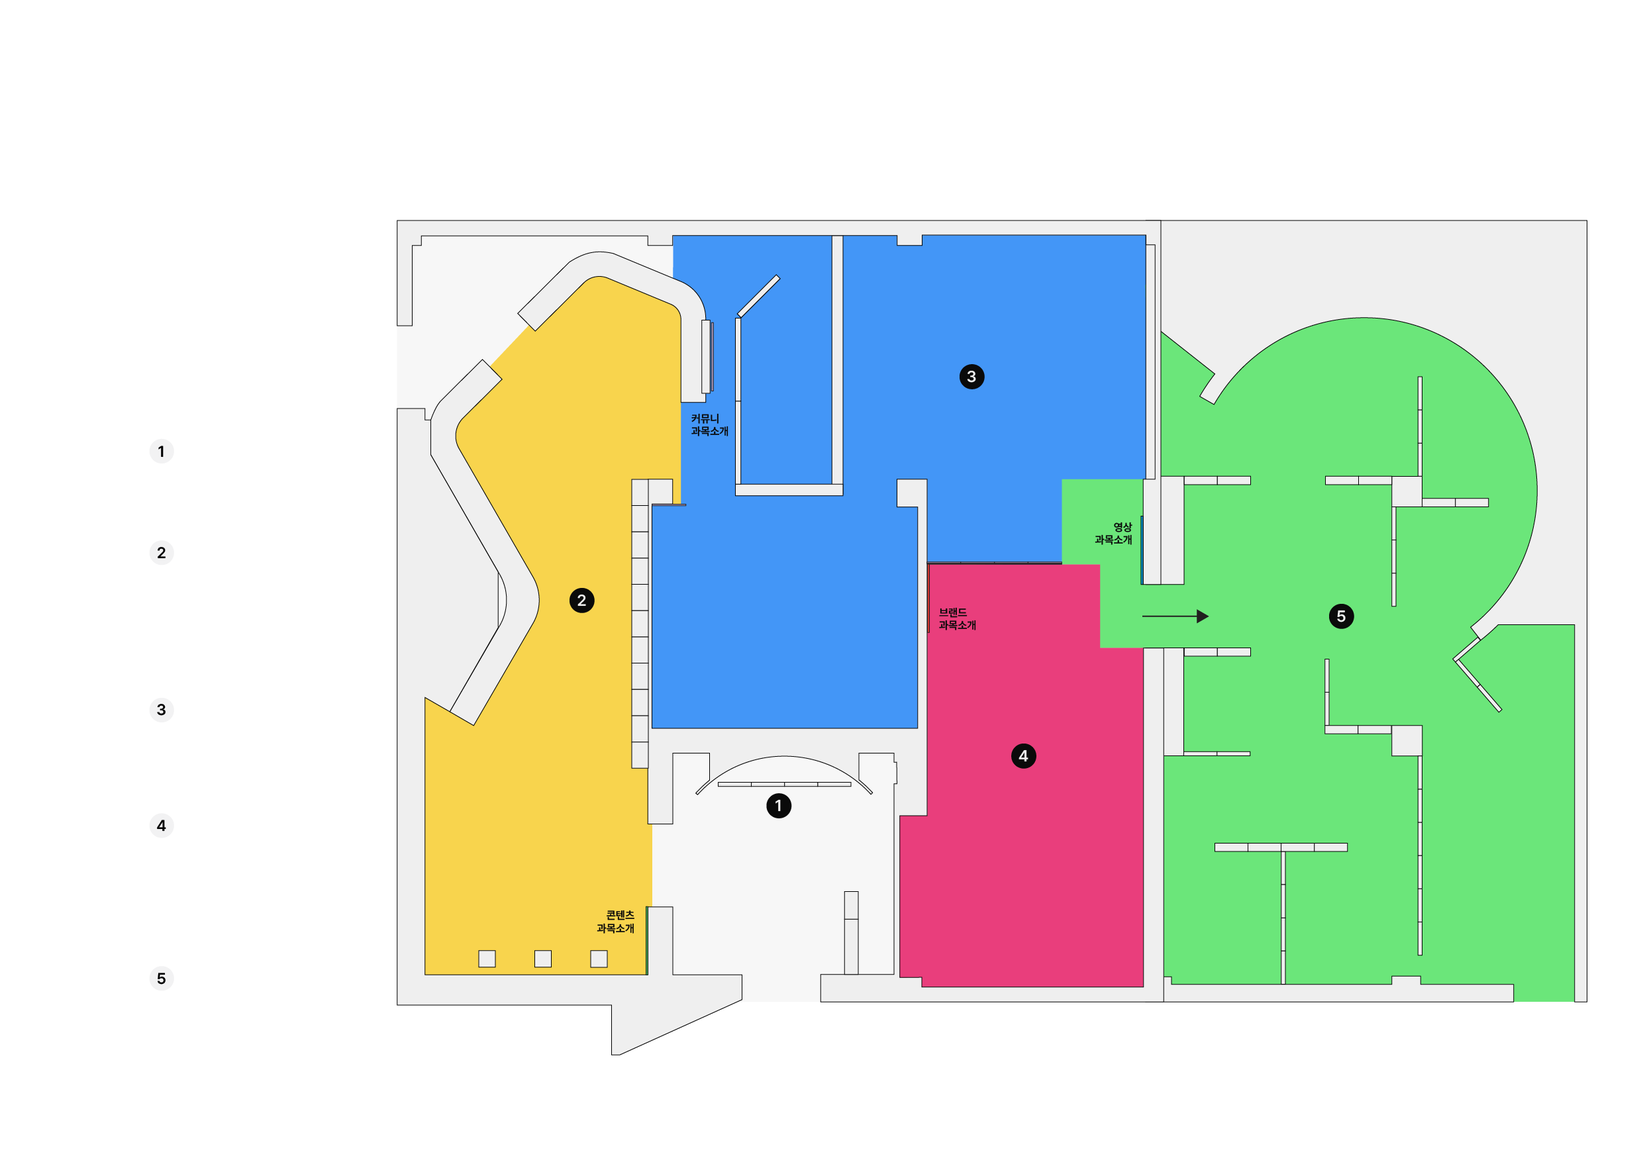
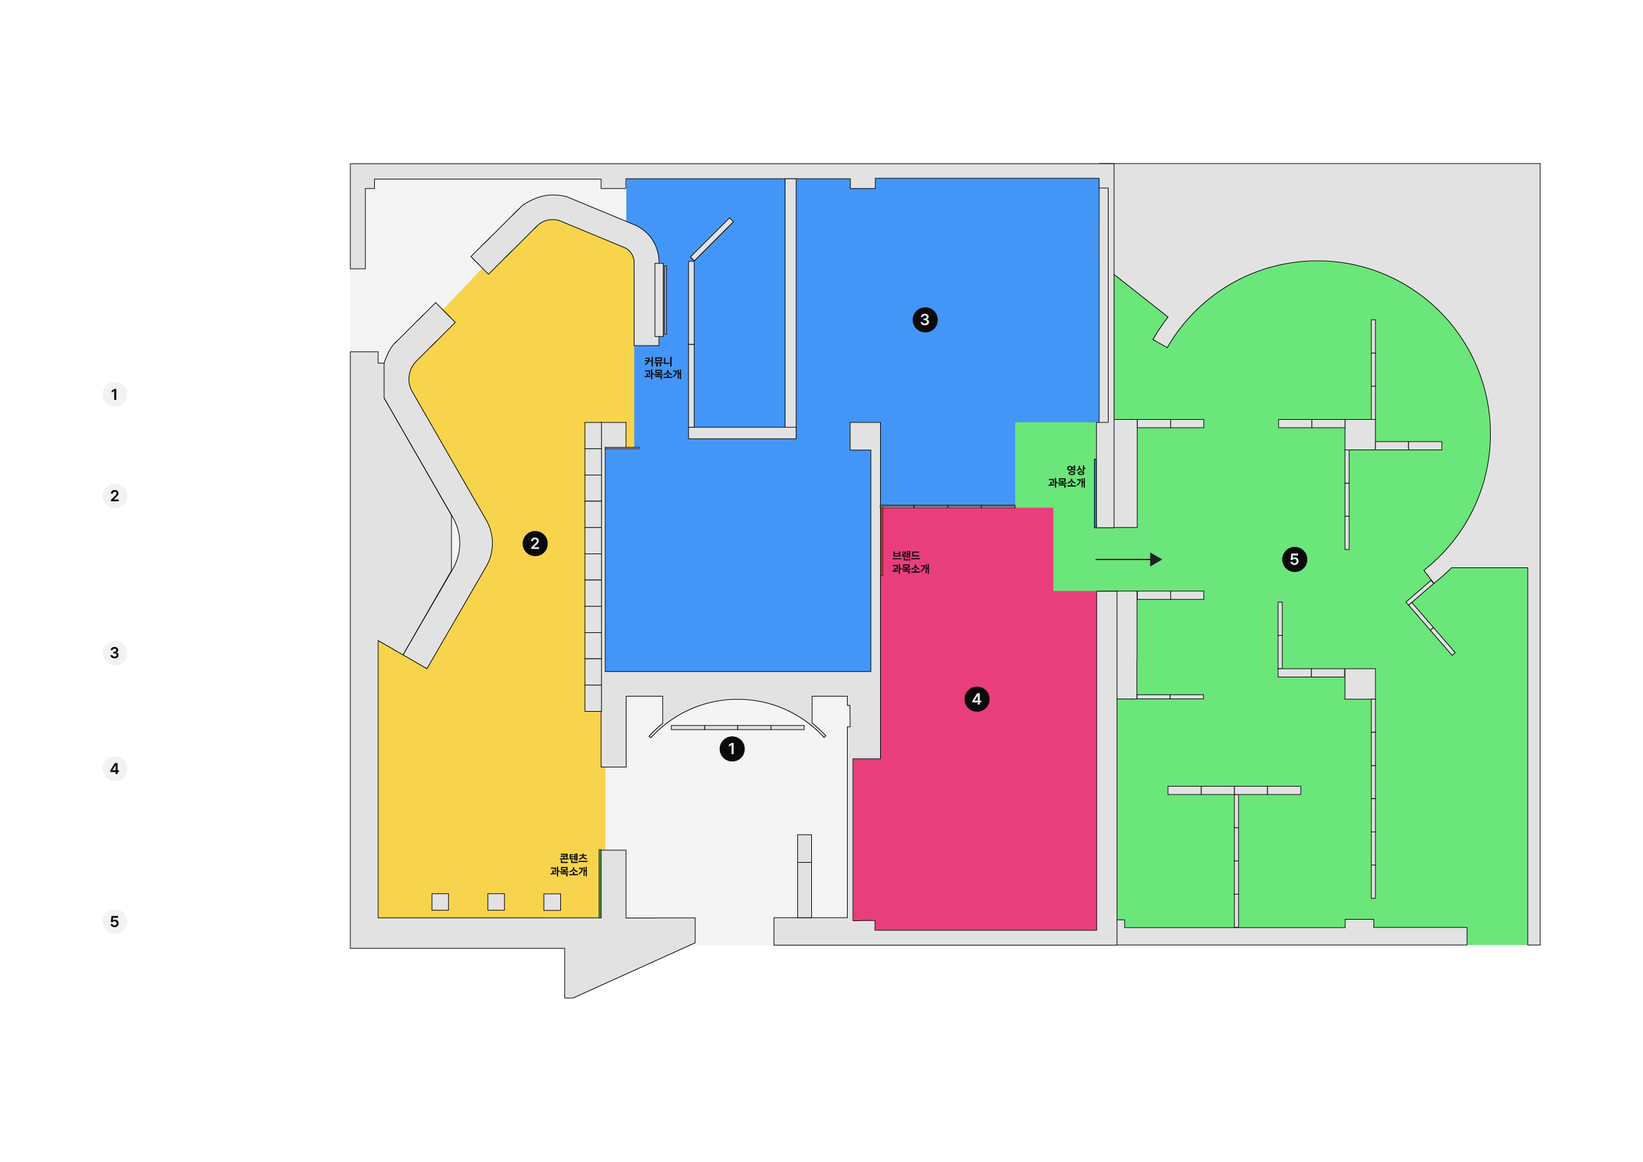
수정
슈정

diff --git a/js/project-detail.js b/js/project-detail.js
@@ -2,7 +2,7 @@
 (function () {
   'use strict';
   /* 상세페이지 PROJECT 설명 문구 (페이지번호 → 이름(공백제거) → 문구) */
-  var projectDescs = {"1": {"고보경": "숲의 미래를 질문하며 보존의 가치를 시각화하는 아이덴티티 프로젝트 <What If _>", "강은주": "<Filter Human & Sponge Human> 주체적 수용을 위한 사회적 관계 맺기 시각 아이덴티티 연구 <HUMAN FILTER LAB>", "김선아": "공간의 고정관념을 해체하는 XR Studio 시각 아이덴티티 연구 <D es Ou>", "김아연": "Question & Curiosity Bank 궁금증과 호기심을 해결하는 문제해결 은행 <Q?RIOS>", "김온슬": "사회적 포비아 정보 시각화 연구소 <Don't Panic>", "김채은": "자연계 순환의 대비로 해석되는 인간 가치 시스템 아이덴티티 프로젝트 <H 1/n N 1/n >", "민찬우": "지역소멸 탐색, 재구성 시각화 연구소 <There>", "박시연": "도시 소음의 중첩으로 발생하는 감각 과부하 개선 시각화 프로젝트 <S=City/N>", "박지희": "1인가구를 위한 나이트 루틴 케어 패키지<달빛 한 모금, 별가루 한 스푼>", "반가인": "와비사비의 미학을 통해 소멸의 가치를 긍정하는 비정형 퍼퓸 브랜드 <MAMO>", "서동윤": "Z세대 의기양양 캠페인 <담담.당당>", "서준원": "가능성 중심의 격려를 건네는 홈 가드닝 브랜드 <CAN>", "서하빈": "도시 환경 개선 <도시 한 칸 비움 한켠> 아이덴티티프로젝트", "신지혜": "사건,사물의 궤적을 잇는 기록 플랫폼 <Underline Archive>", "안혜원": "우리사회행복만들기캠페인 <함께 행복 합니다>", "양서안": "사회적 계몽을 위한 긍정적 감염 비주얼 백신 연구소 <SUGARCOAT>", "이강찬": "기존 질서에 개입하는 시각적 선언연대 아이덴티티 프로젝트 <나섦기류단>", "이고은": "야외 환경에서의 간편한 식사 경험을 위한 패키지 <Let’s Picnic!>", "이기훈": "캠핑/피크닉 용품 사용자 경험 패키지 <GABBUN!>", "이소연": "버려지는 물건에 새로운 숨을, Upcycle Object Factory <After Art>", "이지민": "마음이 채워지는 사계절의 순간, 시즈너블 기프트 디저트 패키지 <Oh, My _!>", "제선우": "전형적 관계의 맥락 삭제 패키지 - NullyNully", "정유리": "덜어냄의 미학-올데이 다이어트 라이프 스타일 <BREATH.Y>", "정윤서": "패션 소품 압축 패키지 <Quiet Objects>", "조서빈": "보이지 않는 디지털 행동의 구조를 시각 언어로 재해석하는 프로젝트<IF THEN>", "채한주": "창발성의 관점으로 해석한 ‘계’의 분류와 구조의 시각화 프로젝트<Not Only>", "최고은": "을지로 공구거리 재활성화 프로젝트 <다시,을지>", "최유민": "신화적 서사가 담긴 과일청 패키지 브랜드 <신의과원>", "최은서": "소모의 철학-센티드 페이퍼 아트 패키지 <SOMO,>", "한호정": "다양한 이동조건을 가진 사용자들을 위한 직관적 경로 아이덴티티 <Right way>"}, "2": {"고보경": "나의 기준은 외부에서 형성되는가, 아니면 스스로 설정하는가?", "강은주": "알고리즘이 분류한 ‘나’와 내가 생각하는 ‘나’는 얼마나 같고 다른가?", "김선아": "AI의 답변은 나의 다음 생각과 선택에 어떤 영향을 주는가?", "김아연": "끊임없이 변화하는 환경 속에서 경계는 고정되어야 하는가, 아니면 상황에 따라 유연하게 변해야 하는가?", "김온슬": "과거의 결핍이 창의성의 원천이었다면, 모든 것이 충족되는 기술 시대의 창의성은 어디서 오는가?", "김채은": "나의 생각을 기술이 침범하는 순간이 많아진다면, 나는 스스로의 내면을 어떻게 지켜나갈 것인가?", "민찬우": "부딪히는 순간, 경계는 무너지는 걸까 새로 생겨나는 걸까?", "박시연": "내가 나라고 믿는 기준은 어디에서 비롯된 것인가?", "박지희": "나는 지금 선택하고 있는 걸까, 아니면 익숙함에 반응하고 있는 걸까?", "반가인": "우리는 왜 끊임없이 경계를 만들고 유지하려 하는가?", "서동윤": "빠르게 변화하는 기술의 흐름 속에서 인간은 무엇을 잃지 않고 이어가야하는가?", "서준원": "부딪히는 두 대상 중, 실제로 더 크게 흔들리는 것은 강한 쪽일까 약한 쪽일까?", "서하빈": "서로의 다름을 깎아내어 맞추는 것이 조율인가, 아니면 다름을 유지한 채 엮어내는 것이 조율인가?", "신지혜": "공존은 안정된 상태인가, 아니면 지속적으로 조율되는 과정인가?", "안혜원": "익숙함은 반복의 결과인가, 아니면 사회적으로 학습된 기준인가?", "양서안": "맥락의 변화로 대상의 의미가 달라질 때, 실제로 변하는 것은 외부의 대상인가 아니면 대상을 바라보는 나의 ‘인식 구조’인가?", "이강찬": "기존 질서를 해체하는 것은 파괴인가, 아니면 창조의 시작인가?", "이고은": "변화는 나를 잃는 과정인가, 나를 확장하는 과정인가?", "이기훈": "인식은 대상을 발견하는 일일까, 대상에 의미를 부여하는일일까?", "이소연": "관계가 흔들릴 때 새로운 방식의 연결은 어떻게 만들어지는가?", "이지민": "나를 규정하는 기준은 스스로 만든 것인가, 사회가 정한 것인가?", "제선우": "시대의 변화는 인간이 관계를 맺는 방식을 어떻게 바꾸어왔는가?", "정유리": "선을 긋는 건 지키기 위함일까, 밀어내기 위함일까?", "정윤서": "공존은 경계를 명확히 함으로써 가능한가, 아니면 경계를 흐리게함으로써 가능한가?", "조서빈": "대상을 어떻게 바라보느냐에 따라 나의 행동과 태도는 어떻게 달라지는가?", "채한주": "시대가 변화할 때, 우리가 당연하다고 여겼던 것들은 어떻게 흔들리는가?", "최고은": "늘 곁에 있어서 보이지 않게 된 것들은 무엇일까?", "최유민": "감각, 감정, 데이터 등 서로 다른 기준은 각각 어떤 방식으로 경계를 정의하는가?", "최은서": "나의 정체성은 고정된 것인가, 아니면 끊임없이 재구성되는 과정인가?", "한호정": "진짜와 가짜를 구별하기 점점 어려워진다면, 그것은 가짜가 교묘해졌기 때문일까 아니면 진짜가 빛을 잃었기 때문일까?"}, "3": {"가은": "Modern Times", "고보경": "사랑교", "강은주,한호정": "AI 창작 표기 시스템", "김선아": "스트레스 배양 연구소", "김아연": "START! SMART", "김온슬": "Better than Run", "김채은": "상실 관리국", "민찬우": "취준제", "박시연": "인지예보국", "박지희": "삐뚤빼뚤 대탈출", "반가인": "패션자산통제국", "백지윤": "별의 궤적", "서동윤": "100투더카", "서준원": "THE WARDROBE TIMES", "서하빈": "USE ME IF U CAN", "신지혜": "성안에서 만나요 : 성안길 성지순례 프로젝트", "안혜원,정윤서": "보통의 산만함", "양서안": "신경변이 도해록", "이강찬": "괴인관찰연구소", "이고은": "돈워리정 30DAYS", "이기훈": "Orbit Rangers", "이소연": "우리는 닳아야 남는다", "이지민": "냠냠! 마음 요괴 식당", "제선우": "중증예술외상센터", "정유리": "찌질이 약국", "조서빈": "미제 플라스틱 사건 보관소", "채한주": "그린케어센터", "최고은": "SNS외모비교전쟁대응본부", "최유민": "가치환전소", "최은서": "베지스카우트"}, "4": {"고보경,박시연": "당문당답", "강은주,최고은": "당연한 한 끼는 없다", "김아연,서하빈": "루머일보: 복원부서", "김선아,박지희": "커스텀 인형 제작소", "김온슬,조서빈": "희희락낙", "김채은,한호정": "BUB CHECK", "민찬우,채한주": "한국소음공사", "반가인,신지혜": "AQU.AI", "서동윤,이강찬": "SPOT ME!", "서준원,이기훈": "CARSIST", "안혜원,정윤서": "NEXT PLAYER", "양서안": "SHADOW SCANNER", "이고은,제선우": "S.O.SAFE", "이소연": "가벼운 죽음은 존재하지 않는다", "이지민,정유리": "GAZE", "최유민,최은서": "FEED BACK"}};
+  var projectDescs = {"1": {"고보경": "숲의 미래를 질문하며 보존의 가치를 시각화하는 아이덴티티 프로젝트 <What If _>", "강은주": "<Filter Human & Sponge Human> 주체적 수용을 위한 사회적 관계 맺기 시각 아이덴티티 연구 <HUMAN\u00a0FILTER\u00a0LAB>", "김선아": "공간의 고정관념을 해체하는 XR Studio 시각 아이덴티티 연구 <D es Ou>", "김아연": "Question & Curiosity Bank 궁금증과 호기심을 해결하는 문제해결 은행 <Q?RIOS>", "김온슬": "사회적 포비아 정보 시각화 연구소 <Don't Panic>", "김채은": "자연계 순환의 대비로 해석되는 인간 가치 시스템 아이덴티티 프로젝트 <H 1/n N 1/n >", "민찬우": "지역소멸 탐색, 재구성 시각화 연구소 <There>", "박시연": "도시 소음의 중첩으로 발생하는 감각 과부하 개선 시각화 프로젝트 <S=City/N>", "박지희": "1인가구를 위한 나이트 루틴 케어 패키지<달빛 한 모금, 별가루 한 스푼>", "반가인": "와비사비의 미학을 통해 소멸의 가치를 긍정하는 비정형 퍼퓸 브랜드 <MAMO>", "서동윤": "Z세대 의기양양 캠페인 <담담.당당>", "서준원": "가능성 중심의 격려를 건네는 홈 가드닝 브랜드 <CAN>", "서하빈": "도시 환경 개선 <도시 한 칸 비움 한켠> 아이덴티티프로젝트", "신지혜": "사건,사물의 궤적을 잇는 기록 플랫폼 <Underline Archive>", "안혜원": "우리사회행복만들기캠페인 <함께 행복 합니다>", "양서안": "사회적 계몽을 위한 긍정적 감염 비주얼 백신 연구소 <SUGARCOAT>", "이강찬": "기존 질서에 개입하는 시각적 선언연대 아이덴티티 프로젝트 <나섦기류단>", "이고은": "야외 환경에서의 간편한 식사 경험을 위한 패키지 <Let’s Picnic!>", "이기훈": "캠핑/피크닉 용품 사용자 경험 패키지 <GABBUN!>", "이소연": "버려지는 물건에 새로운 숨을, Upcycle Object Factory <After Art>", "이지민": "마음이 채워지는 사계절의 순간, 시즈너블 기프트 디저트 패키지 <Oh, My _!>", "제선우": "전형적 관계의 맥락 삭제 패키지 - NullyNully", "정유리": "덜어냄의 미학-올데이 다이어트 라이프 스타일 <BREATH.Y>", "정윤서": "패션 소품 압축 패키지 <Quiet Objects>", "조서빈": "보이지 않는 디지털 행동의 구조를 시각 언어로 재해석하는 프로젝트<IF THEN>", "채한주": "창발성의 관점으로 해석한 ‘계’의 분류와 구조의 시각화 프로젝트<Not Only>", "최고은": "을지로 공구거리 재활성화 프로젝트 <다시,을지>", "최유민": "신화적 서사가 담긴 과일청 패키지 브랜드 <신의과원>", "최은서": "소모의 철학-센티드 페이퍼 아트 패키지 <SOMO,>", "한호정": "다양한 이동조건을 가진 사용자들을 위한 직관적 경로 아이덴티티 <Right way>"}, "2": {"고보경": "나의 기준은 외부에서 형성되는가, 아니면 스스로 설정하는가?", "강은주": "알고리즘이 분류한 ‘나’와 내가 생각하는 ‘나’는 얼마나 같고 다른가?", "김선아": "AI의 답변은 나의 다음 생각과 선택에 어떤 영향을 주는가?", "김아연": "끊임없이 변화하는 환경 속에서 경계는 고정되어야 하는가, 아니면 상황에 따라 유연하게 변해야 하는가?", "김온슬": "과거의 결핍이 창의성의 원천이었다면, 모든 것이 충족되는 기술 시대의 창의성은 어디서 오는가?", "김채은": "나의 생각을 기술이 침범하는 순간이 많아진다면, 나는 스스로의 내면을 어떻게 지켜나갈 것인가?", "민찬우": "부딪히는 순간, 경계는 무너지는 걸까 새로 생겨나는 걸까?", "박시연": "내가 나라고 믿는 기준은 어디에서 비롯된 것인가?", "박지희": "나는 지금 선택하고 있는 걸까, 아니면 익숙함에 반응하고 있는 걸까?", "반가인": "우리는 왜 끊임없이 경계를 만들고 유지하려 하는가?", "서동윤": "빠르게 변화하는 기술의 흐름 속에서 인간은 무엇을 잃지 않고 이어가야하는가?", "서준원": "부딪히는 두 대상 중, 실제로 더 크게 흔들리는 것은 강한 쪽일까 약한 쪽일까?", "서하빈": "서로의 다름을 깎아내어 맞추는 것이 조율인가, 아니면 다름을 유지한 채 엮어내는 것이 조율인가?", "신지혜": "공존은 안정된 상태인가, 아니면 지속적으로 조율되는 과정인가?", "안혜원": "익숙함은 반복의 결과인가, 아니면 사회적으로 학습된 기준인가?", "양서안": "맥락의 변화로 대상의 의미가 달라질 때, 실제로 변하는 것은 외부의 대상인가 아니면 대상을 바라보는 나의 ‘인식 구조’인가?", "이강찬": "기존 질서를 해체하는 것은 파괴인가, 아니면 창조의 시작인가?", "이고은": "변화는 나를 잃는 과정인가, 나를 확장하는 과정인가?", "이기훈": "인식은 대상을 발견하는 일일까, 대상에 의미를 부여하는일일까?", "이소연": "관계가 흔들릴 때 새로운 방식의 연결은 어떻게 만들어지는가?", "이지민": "나를 규정하는 기준은 스스로 만든 것인가, 사회가 정한 것인가?", "제선우": "시대의 변화는 인간이 관계를 맺는 방식을 어떻게 바꾸어왔는가?", "정유리": "선을 긋는 건 지키기 위함일까, 밀어내기 위함일까?", "정윤서": "공존은 경계를 명확히 함으로써 가능한가, 아니면 경계를 흐리게함으로써 가능한가?", "조서빈": "대상을 어떻게 바라보느냐에 따라 나의 행동과 태도는 어떻게 달라지는가?", "채한주": "시대가 변화할 때, 우리가 당연하다고 여겼던 것들은 어떻게 흔들리는가?", "최고은": "늘 곁에 있어서 보이지 않게 된 것들은 무엇일까?", "최유민": "감각, 감정, 데이터 등 서로 다른 기준은 각각 어떤 방식으로 경계를 정의하는가?", "최은서": "나의 정체성은 고정된 것인가, 아니면 끊임없이 재구성되는 과정인가?", "한호정": "진짜와 가짜를 구별하기 점점 어려워진다면, 그것은 가짜가 교묘해졌기 때문일까 아니면 진짜가 빛을 잃었기 때문일까?"}, "3": {"가은": "Modern Times", "고보경": "사랑교", "강은주,한호정": "AI 창작 표기 시스템", "김선아": "스트레스 배양 연구소", "김아연": "START! SMART", "김온슬": "Better than Run", "김채은": "상실 관리국", "민찬우": "취준제", "박시연": "인지예보국", "박지희": "삐뚤빼뚤 대탈출", "반가인": "패션자산통제국", "백지윤": "별의 궤적", "서동윤": "100투더카", "서준원": "THE WARDROBE TIMES", "서하빈": "USE ME IF U CAN", "신지혜": "성안에서 만나요 : 성안길 성지순례 프로젝트", "안혜원,정윤서": "보통의 산만함", "양서안": "신경변이 도해록", "이강찬": "괴인관찰연구소", "이고은": "돈워리정 30DAYS", "이기훈": "Orbit Rangers", "이소연": "우리는 닳아야 남는다", "이지민": "냠냠! 마음 요괴 식당", "제선우": "중증예술외상센터", "정유리": "찌질이 약국", "조서빈": "미제 플라스틱 사건 보관소", "채한주": "그린케어센터", "최고은": "SNS외모비교전쟁대응본부", "최유민": "가치환전소", "최은서": "베지스카우트"}, "4": {"고보경,박시연": "당문당답", "강은주,최고은": "당연한 한 끼는 없다", "김아연,서하빈": "루머일보: 복원부서", "김선아,박지희": "커스텀 인형 제작소", "김온슬,조서빈": "희희락낙", "김채은,한호정": "BUB CHECK", "민찬우,채한주": "한국소음공사", "반가인,신지혜": "AQU.AI", "서동윤,이강찬": "SPOT ME!", "서준원,이기훈": "CARSIST", "안혜원,정윤서": "NEXT PLAYER", "양서안": "SHADOW SCANNER", "이고은,제선우": "S.O.SAFE", "이소연": "가벼운 죽음은 존재하지 않는다", "이지민,정유리": "GAZE", "최유민,최은서": "FEED BACK"}};
   var profiles = {"가 은":{"en":"Ka Eun","photo":"images/students/student-01.png","contact":"rkdms7472@naver.com"},"고보경":{"en":"Ko Bogyeong","photo":"images/students/student-02.png","contact":"@esiouqrut1"},"강은주":{"en":"Kang Eunju","photo":"images/students/student-03.png","contact":"@0I7_ju_04"},"김아연":{"en":"Kim Ayeon","photo":"images/students/student-04.png","contact":"@_zn03k"},"김온슬":{"en":"Kim Onseul","photo":"images/students/student-05.png","contact":"@kioxseul"},"김선아":{"en":"Kim Seona","photo":"images/students/student-06.png","contact":"@atsonnya"},"김채은":{"en":"Kim Chaeeun","photo":"images/students/student-07.png","contact":"@0chaeeun0506"},"민찬우":{"en":"Min Chanwoo","photo":"images/students/student-08.png","contact":"@qczanwu"},"반가인":{"en":"Ban Gain","photo":"images/students/student-09.png","contact":"@qksgain"},"박시연":{"en":"Park Siyeon","photo":"images/students/student-10.png","contact":"@sxiiyxx_"},"박지희":{"en":"Park Jihee","photo":"images/students/student-11.png","contact":"@mohi_.ya"},"백지윤":{"en":"Baek jiyoun","photo":"images/students/student-12.png","contact":"gena0314@naver.com"},"서동윤":{"en":"Seo Dongyoon","photo":"images/students/student-13.png","contact":"@designnooy"},"서준원":{"en":"Seo Junwon","photo":"images/students/student-14.png","contact":"@junwon_archive"},"서하빈":{"en":"Seo Habin","photo":"images/students/student-15.png","contact":"@summer.bin_02"},"신지혜":{"en":"Shin Jihye","photo":"images/students/student-16.png","contact":"shinjh7935@naver.com"},"안혜원":{"en":"An Hyewon","photo":"images/students/student-17.png","contact":"@in_hye.1"},"양서안":{"en":"Yang Seoan","photo":"images/students/student-18.png","contact":"ysa20030115@gmail.com"},"이강찬":{"en":"Lee Kangchan","photo":"images/students/student-19.png","contact":"lkc0516@naver.com"},"이고은":{"en":"Lee Goeun","photo":"images/students/student-20.png","contact":"leegoeun0818@gmail.com"},"이기훈":{"en":"Lee Gihun","photo":"images/students/student-21.png","contact":"@gih._.n"},"이소연":{"en":"Lee Soyeon","photo":"images/students/student-22.png","contact":"@1ov.ss"},"이지민":{"en":"Lee Jimin","photo":"images/students/student-23.png","contact":"@00wx4"},"제선우":{"en":"Je Seonu","photo":"images/students/student-24.png","contact":"@ovesopeor"},"정유리":{"en":"Jung Yuri","photo":"images/students/student-25.png","contact":"@yur_4432"},"정윤서":{"en":"Jeong Yoonseo","photo":"images/students/student-26.png","contact":"@yns_o.2"},"조서빈":{"en":"Cho Seobin","photo":"images/students/student-27.png","contact":"@_choseobin"},"채한주":{"en":"Chae Hanju","photo":"images/students/student-28.png","contact":"@hanju0617"},"최고은":{"en":"Choi Goeun","photo":"images/students/student-29.png","contact":"@rhdms_a.t2"},"최유민":{"en":"Choi Yumin","photo":"images/students/student-30.png","contact":"@yyuumm_in_"},"최은서":{"en":"Choi Eunseo","photo":"images/students/student-31.png","contact":"@a.g_se0"},"한호정":{"en":"Han Hojeong","photo":"images/students/student-32.png","contact":"@h0.je0ng"}};
   document.addEventListener('DOMContentLoaded', function () {
     var params = new URLSearchParams(window.location.search);

diff --git a/about.html b/about.html
@@ -70,15 +70,18 @@
 /* 졸업준비위원회: 위원장·부위원장·기획부장을 '기획부' 아래로 묶음 */
 .committee .chairs-dept { font-size: 14px; font-weight: 700; margin-bottom: 15px; }
 /* 졸업준비위원회 이름 배치: 위원장·부위원장을 아래 줄 왼쪽 끝에 맞춤 */
-.committee-board { width: 900px; max-width: 90%; margin: 0 auto; } /* 아래 부서별 설명(.dept-list 900px)과 같은 폭·같은 가운데 → 좌우 끝선 일치 */
+.committee-board { width: fit-content; max-width: 100%; margin: 0 auto; }
 .committee .chairs { justify-content: flex-start; gap: 37px; margin-bottom: 62px; }
-.committee .heads  { justify-content: space-between; gap: 0; } /* 부서 7개를 900px 폭에 고르게 펼침 */
+.committee .heads  { justify-content: flex-start; gap: 64px; }
 @media (max-width: 760px) {
   .committee .chairs, .committee .heads { gap: 24px; }
-  .committee .heads { justify-content: flex-start; }
 }
 /* 부서별 설명: style.css의 left:60px(오른쪽으로 밀림) 취소 → 페이지 가운데 정렬 */
 .dept-list { left: 0; }
+/* 부서별 설명 오른쪽 열(부장·부원)을 오른쪽 끝으로 밀고 모든 부서에서 같은 위치에서 시작 (왼쪽 설명 폭은 그대로) */
+@media (min-width: 761px) {
+  .dept { grid-template-columns: minmax(0, 445px) 270px; justify-content: space-between; }
+}
 </style>
 
 </head>
